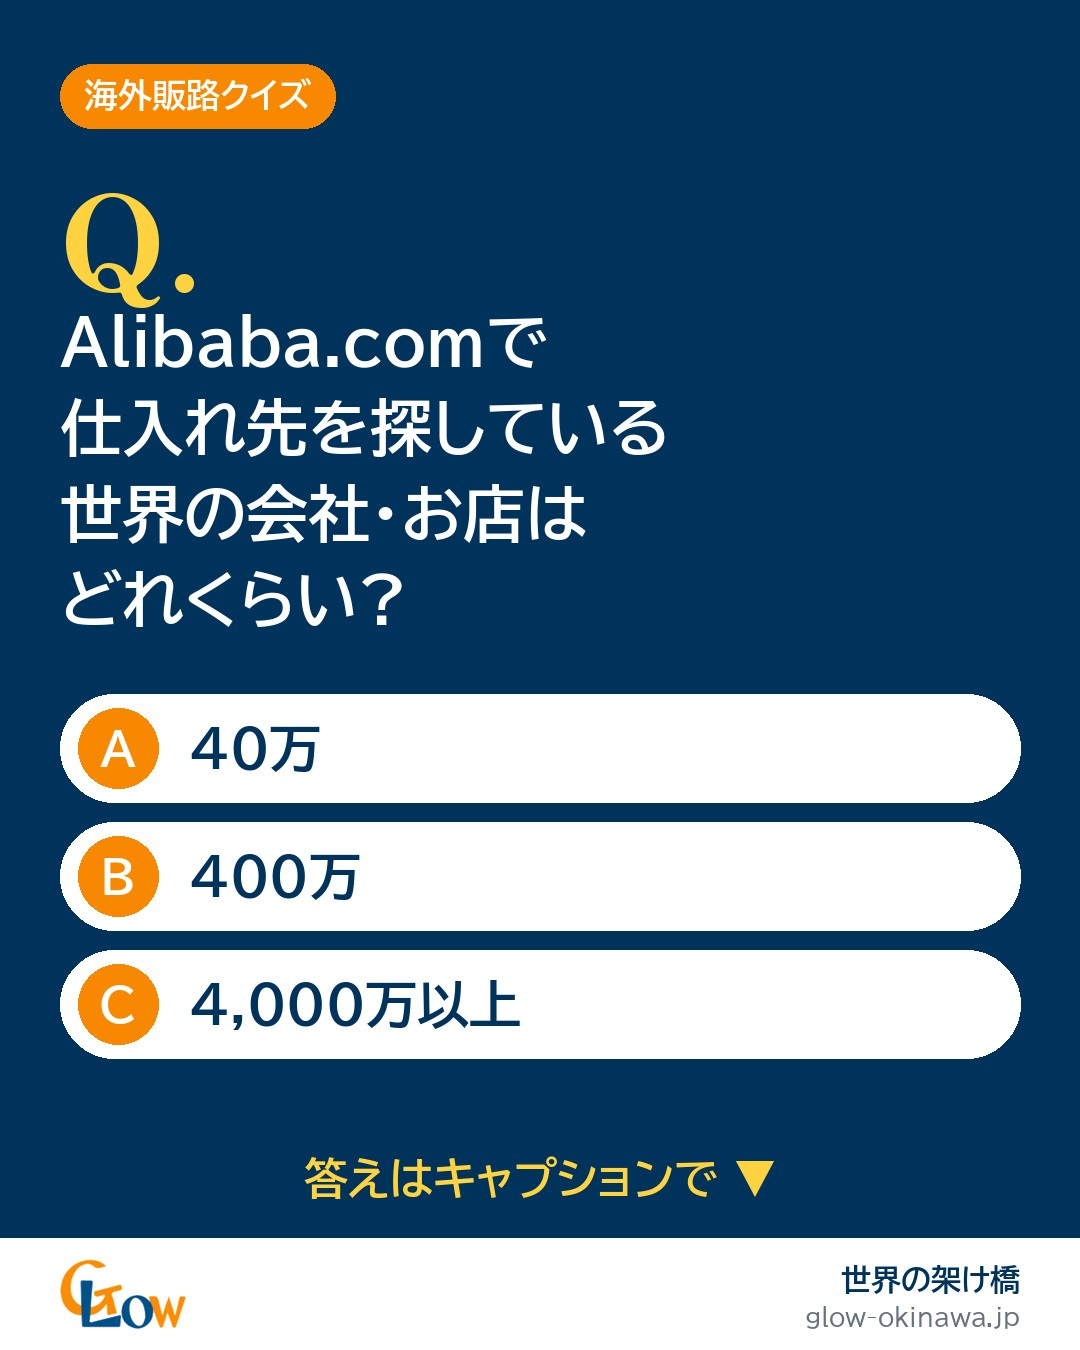
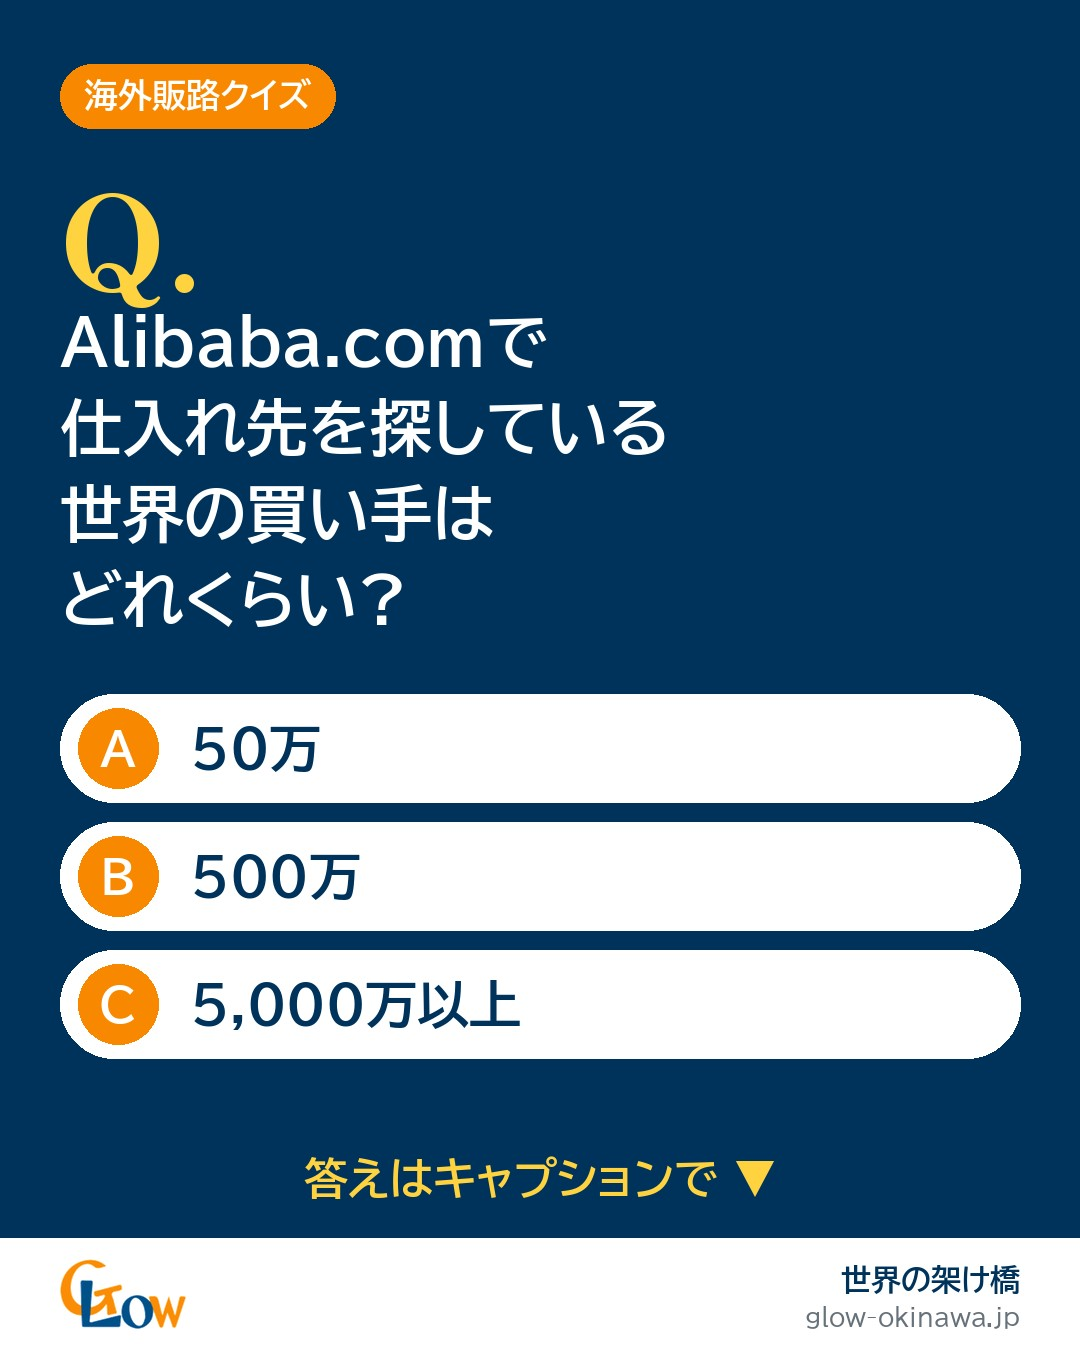
世界の架け橋SNS: 買い手の数のクイズを4,000万→5,000万にそろえる(サイト・資料と同じ数字)
2026-11-04 小柳さん指示。出典は Alibaba.com 公式(About Alibaba.com)。

Claude-Session: https://claude.ai/code/session_016UFDXVuYFtAtTGYqmXNcP3

diff --git a/scripts/glow_sns_build.py b/scripts/glow_sns_build.py
@@ -66,9 +66,9 @@ POSTS = [
     {"id": "intro", "kind": "brand", "img": "hero-shuri-calligraphy.jpg",
      "head": "沖縄の宝を、\n世界の買い手へ。", "sub": "世界の架け橋 by GLOW、はじめます",
      "cap": "はじめまして。株式会社GLOWの「世界の架け橋」です。\n\n沖縄の黒糖、泡盛、もずく、琉球ガラス。沖縄には、世界でまだ知られていない宝がたくさんあります。\n\n私たちは、世界最大級の企業どうしの取引サイト「Alibaba.com」の上に沖縄の売り場を持ち、生産者のみなさんの商品を世界の買い手へ届けるお手伝いをしています。\n\nこのアカウントでは\n・海外販路クイズ\n・英語で言うと?(沖縄の産品の英語での伝え方)\n・やりがちNG→OK\n・海外販路ことば辞典\nなどを、月・水・金にお届けします。"},
-    {"id": "qz-buyers", "kind": "quiz", "q": "Alibaba.comで\n仕入れ先を探している\n世界の会社・お店は\nどれくらい?",
-     "opts": ["40万", "400万", "4,000万以上"],
-     "cap": "海外販路クイズ\n\nQ. Alibaba.comで仕入れ先を探している世界の会社・お店は、どれくらい?\nA. 40万 / B. 400万 / C. 4,000万以上\n\n.\n.\n.\n正解は C. 4,000万以上 です。\n\n世界中の会社やお店が、ここで「次に仕入れる商品」を探しています。沖縄の商品も、その目にとまる場所に並べられます。\n\n出典: Alibaba Group 公表(2024年度は4,800万以上)"},
+    {"id": "qz-buyers", "kind": "quiz", "q": "Alibaba.comで\n仕入れ先を探している\n世界の買い手は\nどれくらい?",
+     "opts": ["50万", "500万", "5,000万以上"],
+     "cap": "海外販路クイズ\n\nQ. Alibaba.comで仕入れ先を探している世界の買い手は、どれくらい?\nA. 50万 / B. 500万 / C. 5,000万以上\n\n.\n.\n.\n正解は C. 5,000万以上 です。\n\n世界中の会社やお店が、ここで「次に仕入れる商品」を探しています。沖縄の商品も、その目にとまる場所に並べられます。\n\n出典: Alibaba.com 公式(About Alibaba.com)"},
     {"id": "en-andagi", "kind": "word", "img": "andagi", "ja": "サーターアンダギー", "en": "Sata Andagi",
      "line": "Okinawan fried dough balls,\ncrispy outside and soft inside.",
      "cap": "英語で言うと?\n\nサーターアンダギー → Sata Andagi\n\n名前はそのままでも大丈夫。大事なのは、どんな物かを英語で一文そえることです。\n\n例: Okinawan fried dough balls, crispy outside and soft inside.\n(外はカリッと、中はふんわりした沖縄の揚げ菓子)\n\n世界の買い手は、写真と英語の一文で「どんな味か」を想像します。\n\n" + AI_NOTE},

diff --git a/posts/glow/qz-buyers.md b/posts/glow/qz-buyers.md
@@ -3,17 +3,17 @@
 ## キャプション
 海外販路クイズ
 
-Q. Alibaba.comで仕入れ先を探している世界の会社・お店は、どれくらい?
-A. 40万 / B. 400万 / C. 4,000万以上
+Q. Alibaba.comで仕入れ先を探している世界の買い手は、どれくらい?
+A. 50万 / B. 500万 / C. 5,000万以上
 
 .
 .
 .
-正解は C. 4,000万以上 です。
+正解は C. 5,000万以上 です。
 
 世界中の会社やお店が、ここで「次に仕入れる商品」を探しています。沖縄の商品も、その目にとまる場所に並べられます。
 
-出典: Alibaba Group 公表(2024年度は4,800万以上)
+出典: Alibaba.com 公式(About Alibaba.com)
 
 ▶ くわしく(世界の架け橋のサイト)
 https://glow-okinawa.jp/?utm_source=facebook&utm_medium=social&utm_campaign=glow_sns
@@ -24,5 +24,5 @@ https://allgroup-inc.github.io/hojo-hq/go/glow-fb/
 
 ## 出荷ゲート
 - gates: accuracy-check, deadline-alert, humanizer
-- checked: 2026-10-06
+- checked: 2026-11-04
 - by: Claude(glow_sns_build・提案資料の照合済み数字のみ使用)
